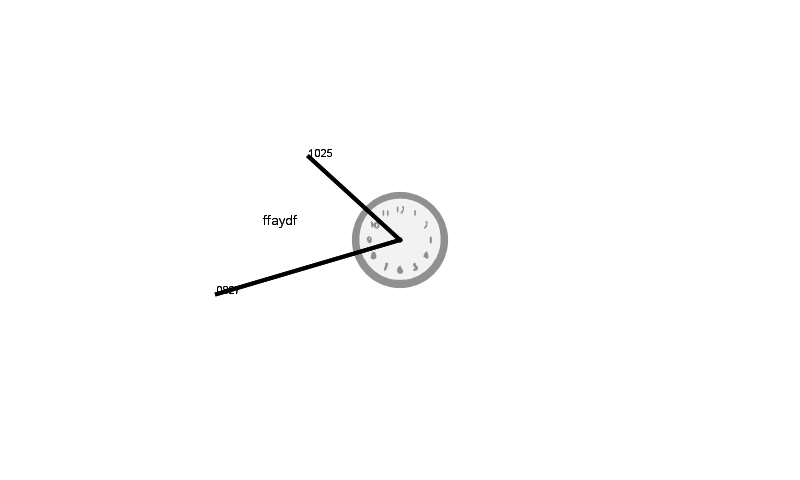
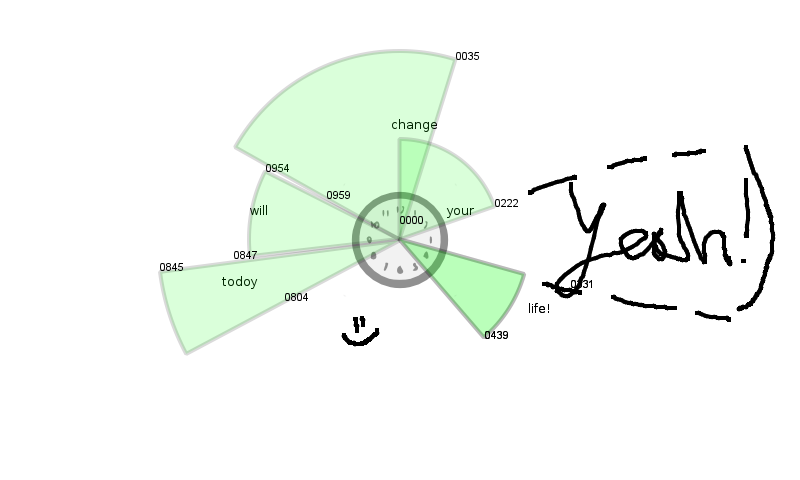
and colored:)

diff --git a/src/todoypage.py b/src/todoypage.py
@@ -243,14 +243,9 @@ class TodoyPage(QWidget):
 		rect=QRect(0,0,800,480)#orig,self.p2)
 
 		painter.save()
-		#painter.translate(orig)
-		#scalingx=abs(self.p2.x())/800
-		#scalingy=abs(self.p2.y())/400
-		#painter.scale(scalingx,scalingy)
+		painter.setBrush(Qt.green)
+		painter.setOpacity(self.conf.ellipse_opacity)#0.15
 		rect2=QRect(orig.x()-radi,orig.y()-radi,2*radi,2*radi)#(orig.x()-self.p2.x(),orig.y()-self.p2.y(),2*radi,2*radi)
-		#set as 200-radius!	#scaleRect!
-
-
 		if self.spantu <0:self.spantu=360+self.spantu
 		#elif self.spantu>360:self.spantu=self.spantu -360
 		#painter.drawRect(rect2)
